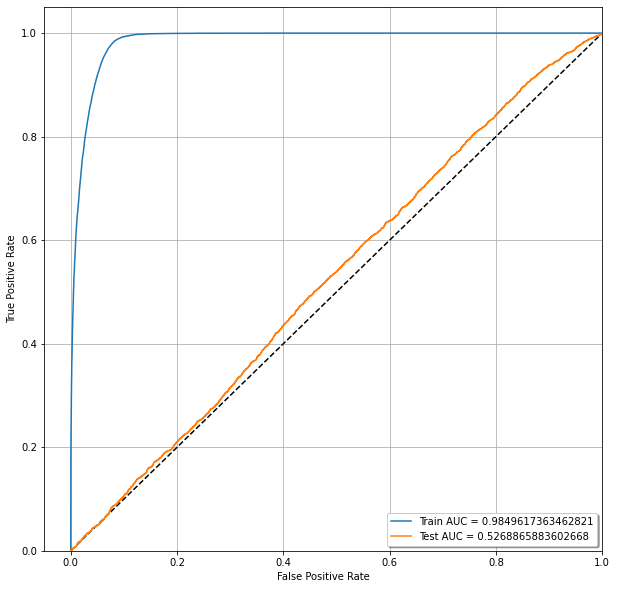
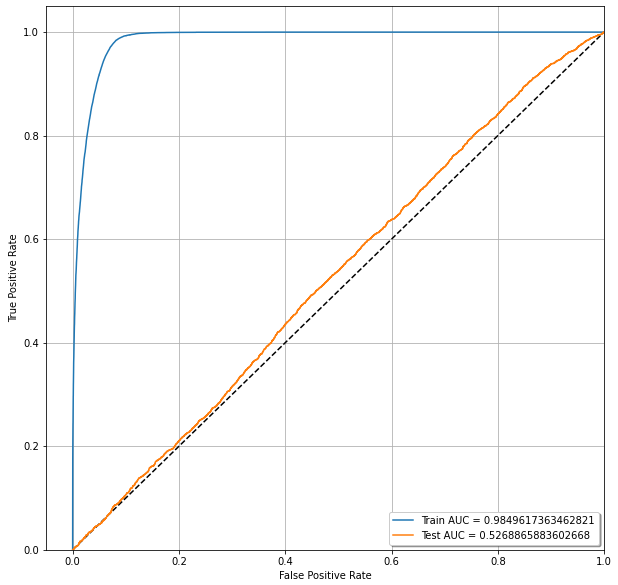
add charts from notebook as images to readme

diff --git a/README.md b/README.md
@@ -32,36 +32,74 @@ The raw dataset has 172838 entries with 15 columns that include: 'accessed_date'
 
 ## Data Pre-Processing and Exploration
 
-### Age and Gender
-When looking into the age column, we saw that there were placeholder values that represented null items. For some reason there were 0s and  dashed lines. However, almost 50% of our data consists of these placeholder values which makes it difficult on deciding what to do with these values. We decided on just removing the those values as it was a way not to skew the data because replacing the mean, median, or mode in those values would just make an our model more biased to that value in the age feature. Additionally, since we still have a decent amount of data to use even after removing those data points, we will tset with the data that was left over and if the metrics point to having a better model with more data point then we may return to these data points and add them in. Furthermore, when researching with this column, we also learned that any unknown genders/ place holder values for the gender column was removed whenever we removed all the unknown ages. Since we are working with the data set without the unknown ages, we can skip identifying any unknown values in the gender column.
+We decided to drop 'network_protocol', 'ip', 'bytes', 'sales', and 'returned_amount'.
+
+![](/images/data_after.PNG)
+
+### Age
+When looking into the age column, we saw that there were placeholder values that represented null items. There were 0s and dashed lines. We removed those values as it was a way not to skew the data because replacing the mean, median, or mode in those values would make an our model more biased to that value in the age feature.
+
+![](/images/age.PNG) 
+
+### Gender
+The process of removing the placeholder values from the Age column also removed the Unknown values from the Gender column.
+
+![](/images/gender.PNG)
 
 ### Payment Methods
 We have 4 payment methods. No need to deal with null, duplicates, or outliers
 
+![](/images/payment_methods.PNG)
+
 ### Membership Type
 When the 0s and null value Age rows were removed, the Not Logged In membership class is removed, leaving only the normal and premium classes for the model. No need to deal with null, duplicates, or outliers.
 
+![](/images/membership_type.PNG)
+
 ### Languages
-There are 29 different languages used on the e-commerce site. The top 3 most common were English Chinese and Spanish. The format is not consistent across our data so we will capitalize the first letter of each language to provide consistency. There are no null values to address or any outliers.
+There are 29 different languages used on the e-commerce site. The top 3 most common were English Chinese and Spanish. The format is not consistent across the column so we capitalized the first letter of each language to provide consistency. There are no null values to address or any outliers.
+
+![](/images/language.PNG)
 
 ### Access Methods
-There are 7 different access methods found in the database; Android App, Chrome, Mozilla Firefox, iOS App, Safari, Microsoft Edge and Others. SafFRi is a misspelling of Safari and will be fixed before modeling. There are no null values to address or any outliers.
+There are 7 different access methods found in the database; Android App, Chrome, Mozilla Firefox, iOS App, Safari, Microsoft Edge and Others. SafFRi is a misspelling of Safari that was fixed before modeling. There are no null values to address or any outliers.
+
+![](/images/access_method.PNG)
 
 ### Countries
-There are 27 countries, all displayed as country codes, that users accessed the e-commerce site from. The top 3 were Italy, United States and Canada. No need to deal with null, duplicates, or outliers
+There are 27 countries, all displayed as country codes, that users accessed the e-commerce site from. The top 3 were Italy, United States and Canada. No need to deal with null, duplicates, or outliers.
+
+![](/images/country.PNG)
 
 ### Return (Target Variable)
-The thing that needs to be addressed with the target variable is the idea of an unbalanced data set. There is only about 15% of the data that contains customers that returned an item. Therefore, we need to test with different sampling techniques (under/over) to gte the dataset more balanced to have a better outcome with the metrics of modeling.
+The thing that needs to be addressed with the target variable is the idea of an unbalanced data set. There is only about 15% of the data that contains customers that returned an item.
 
-## Data After Pre-Processing
+![](/images/target_variable.PNG)
 
-![](/images/data_after.PNG)
+## Imbalanced Data and Solutions
 
-## Oversampling, Undersampling and SMOTE
+Our target variable being imbalanced brings a few problems; possibility of bias toward the majority class, resulting in poor performance on the minority class, metrics such as accuracy can be misleading as high accuracy can be achieved by predicting the majority class, and the model may focus more on features that help distinguish the majority class, neglecting features important for minority class prediction.
 
-As mentioned earlier the target variable in our dataset is imbalanced. This brings a few problems; possibility of bias toward the majority class, resulting in poor performance on the minority class, metrics such as accuracy can be misleading as high accuracy can be achieved by predicting the majority class, and the model may focus more on features that help distinguish the majority class, neglecting features important for minority class prediction.
+![](/images/returned_nonreturned_barchart.png)
 
-To resolve this problem we used Oversampling/Undersampling and SMOTE. Oversampling duplicates the minority class until there are an equal number of records in the minority class as majority class. Undersampling takes pieces of the majority class to reduce the used portion of the majority class to have the same number of records as the minority class. SMOTE generates new records in the minority class to increase the number of records to equal the number in the majority class.
+To resolve this problem we used Oversampling/Undersampling and SMOTE. 
+
+### Oversampling
+Oversampling duplicates the minority class until there are an equal number of records in the minority class as majority class. 
+
+![](/images/oversampling.PNG)
+
+### Undersampling
+
+Undersampling takes pieces of the majority class to reduce the used portion of the majority class to have the same number of records as the minority class. 
+
+![](/images/undersampling.PNG)
+
+### SMOTE
+
+SMOTE generates new records in the minority class to increase the number of records to equal the number in the majority class.
+
+![](/images/SMOTE.PNG)
 
 ## Modeling
 
@@ -78,16 +116,14 @@ For logistic regression, changing the hyperparameters made the oversampled set o
 
 For random forest, the hyperparameters found by grid search made the model performance worse on the unseen data. When using the over sampled set, the training accuracy went from .9586 to .9494 and the test accuracy went from .742 to .726. When using the under sampled set, the training accuracy went from .9616 to .6265 and the test accuracy went from .5149 to .3744. For the SMOTE oversampling, the same can be seen in which the model become worse when the new hyperparameters are applied.
 
-![]()
-
 In the ROC curve, we can see that the training is overfitting and the test set is only ever so slightly better than random chance.
 
-![]()
+![](/images/ROC_Curve.png)
 
 In the confusion matrix, it can contribute to the idea the model is being biased to predicting non-returned items as proposed by our imblanced data problem.
 
-![]()
+![](/images/confusion_matrix.PNG)
 
 The precion and recall table also contrinbutes to this idea as the proportions of predicting 0 (non-returned) as better than 1 (returned)
 
-![]()
+![](/images/precision_recall_table.png)
